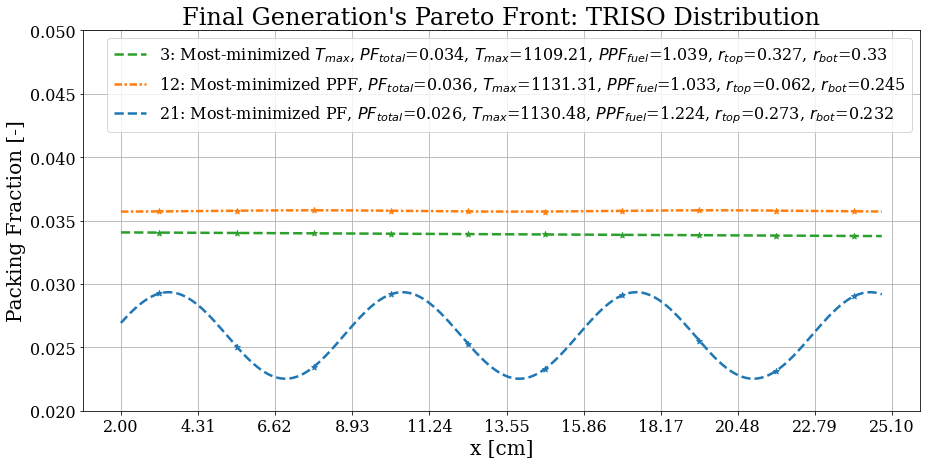
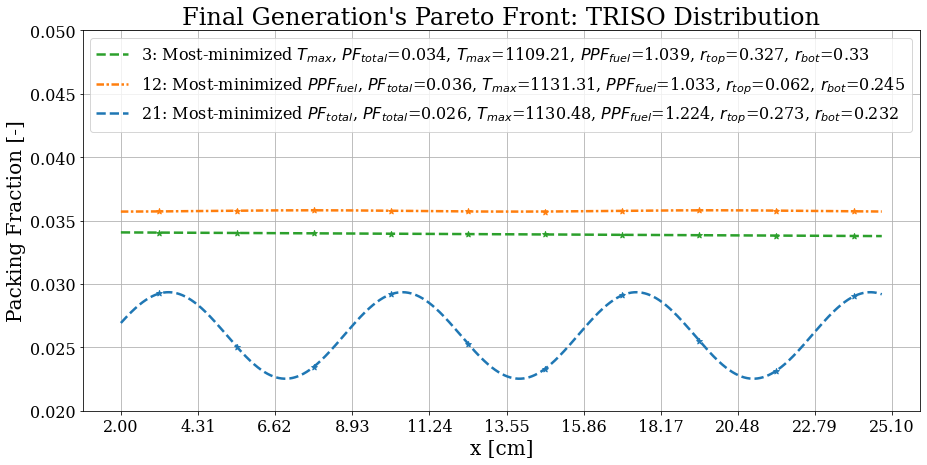
edits

Changed region(s): [[0.0906, 0.0903, 0.9666, 0.271]]

diff --git a/docs/ahtr_rollo_slab.tex b/docs/ahtr_rollo_slab.tex
@@ -1811,9 +1811,8 @@ confirming that simulation p-3b is sufficiently converged by generation 8.
 Figure \ref{fig:slab-obj-3-3d-all} shows a plot of the final generation's reactor 
 models' $PF_{total}$ against $T_{max}$ against $PPF_{fuel}$; 
 crosses indicate the reactor models that fall on the Pareto front.
-Figure \ref{fig:slab-obj-3-distr-all} shows the 21 TRISO distributions and their 
-$r_{top}$ and $r_{bot}$ values in the final generation that fall on the Pareto 
-front. 
+Figure \ref{fig:slab-obj-3-distr-all} shows the 21 reactor models that fall on the
+Pareto front. 
 \begin{figure}[htbp!]
     \begin{subfigure}{\textwidth}
         \centering
